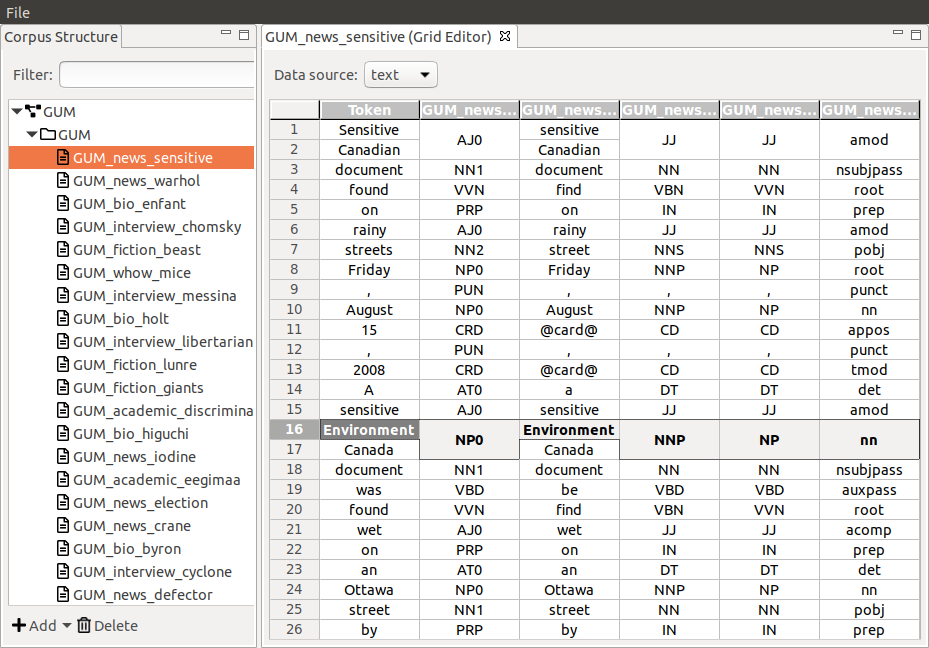
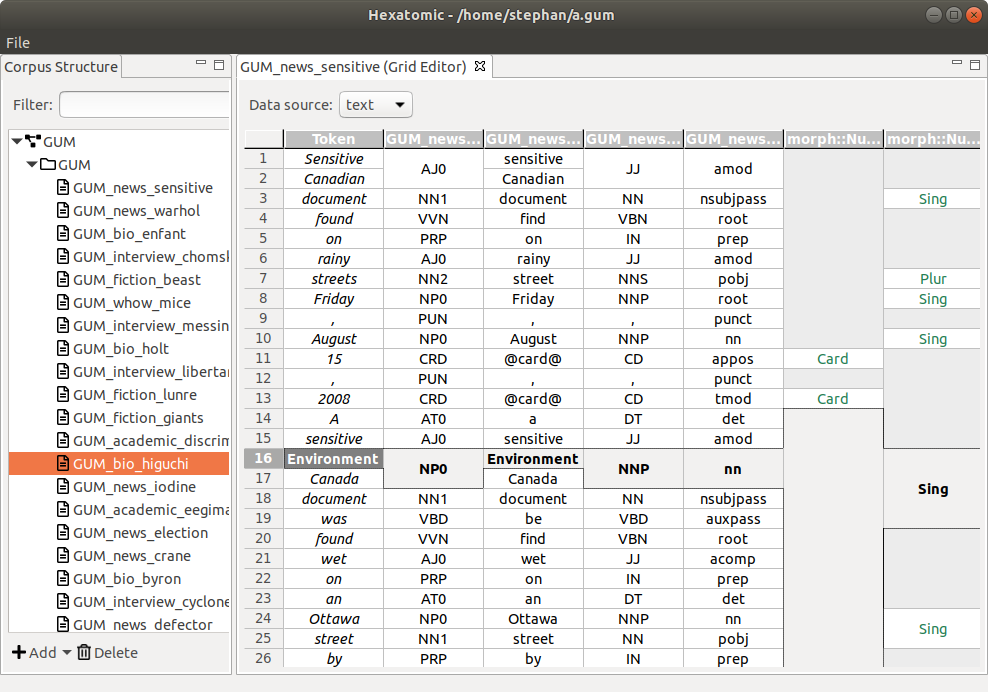
Adapt user docs to reflect new cell styling

diff --git a/docs/user/src/usage/grid-editor/README.md b/docs/user/src/usage/grid-editor/README.md
@@ -1,6 +1,6 @@
 # Grid Editor
 
-The grid editor visualizes token and span annotations.
+The grid editor is for annotating tokens and spans.
 
 Tokens are the smallest countable units in a data source.
 Spans are units that span tokens.
@@ -33,6 +33,12 @@ Instead, the annotation values are spread over more than one adjacent columns, w
 > ![Screenshot of an annotation grid showing overlapping spans](overlap.png)
 
 Adjacent **cells** that have the same value for a qualified annotation are merged.
+
+To distinguish between the different types of content diplayed in the grid cells, they are styled differently:
+
+- *Token text* is displayed in italics.
+- *Token annotations* are displayed in a black font.
+- *Span annotations* are displayed in a green font.
 
 ## Navigation and selection
 
